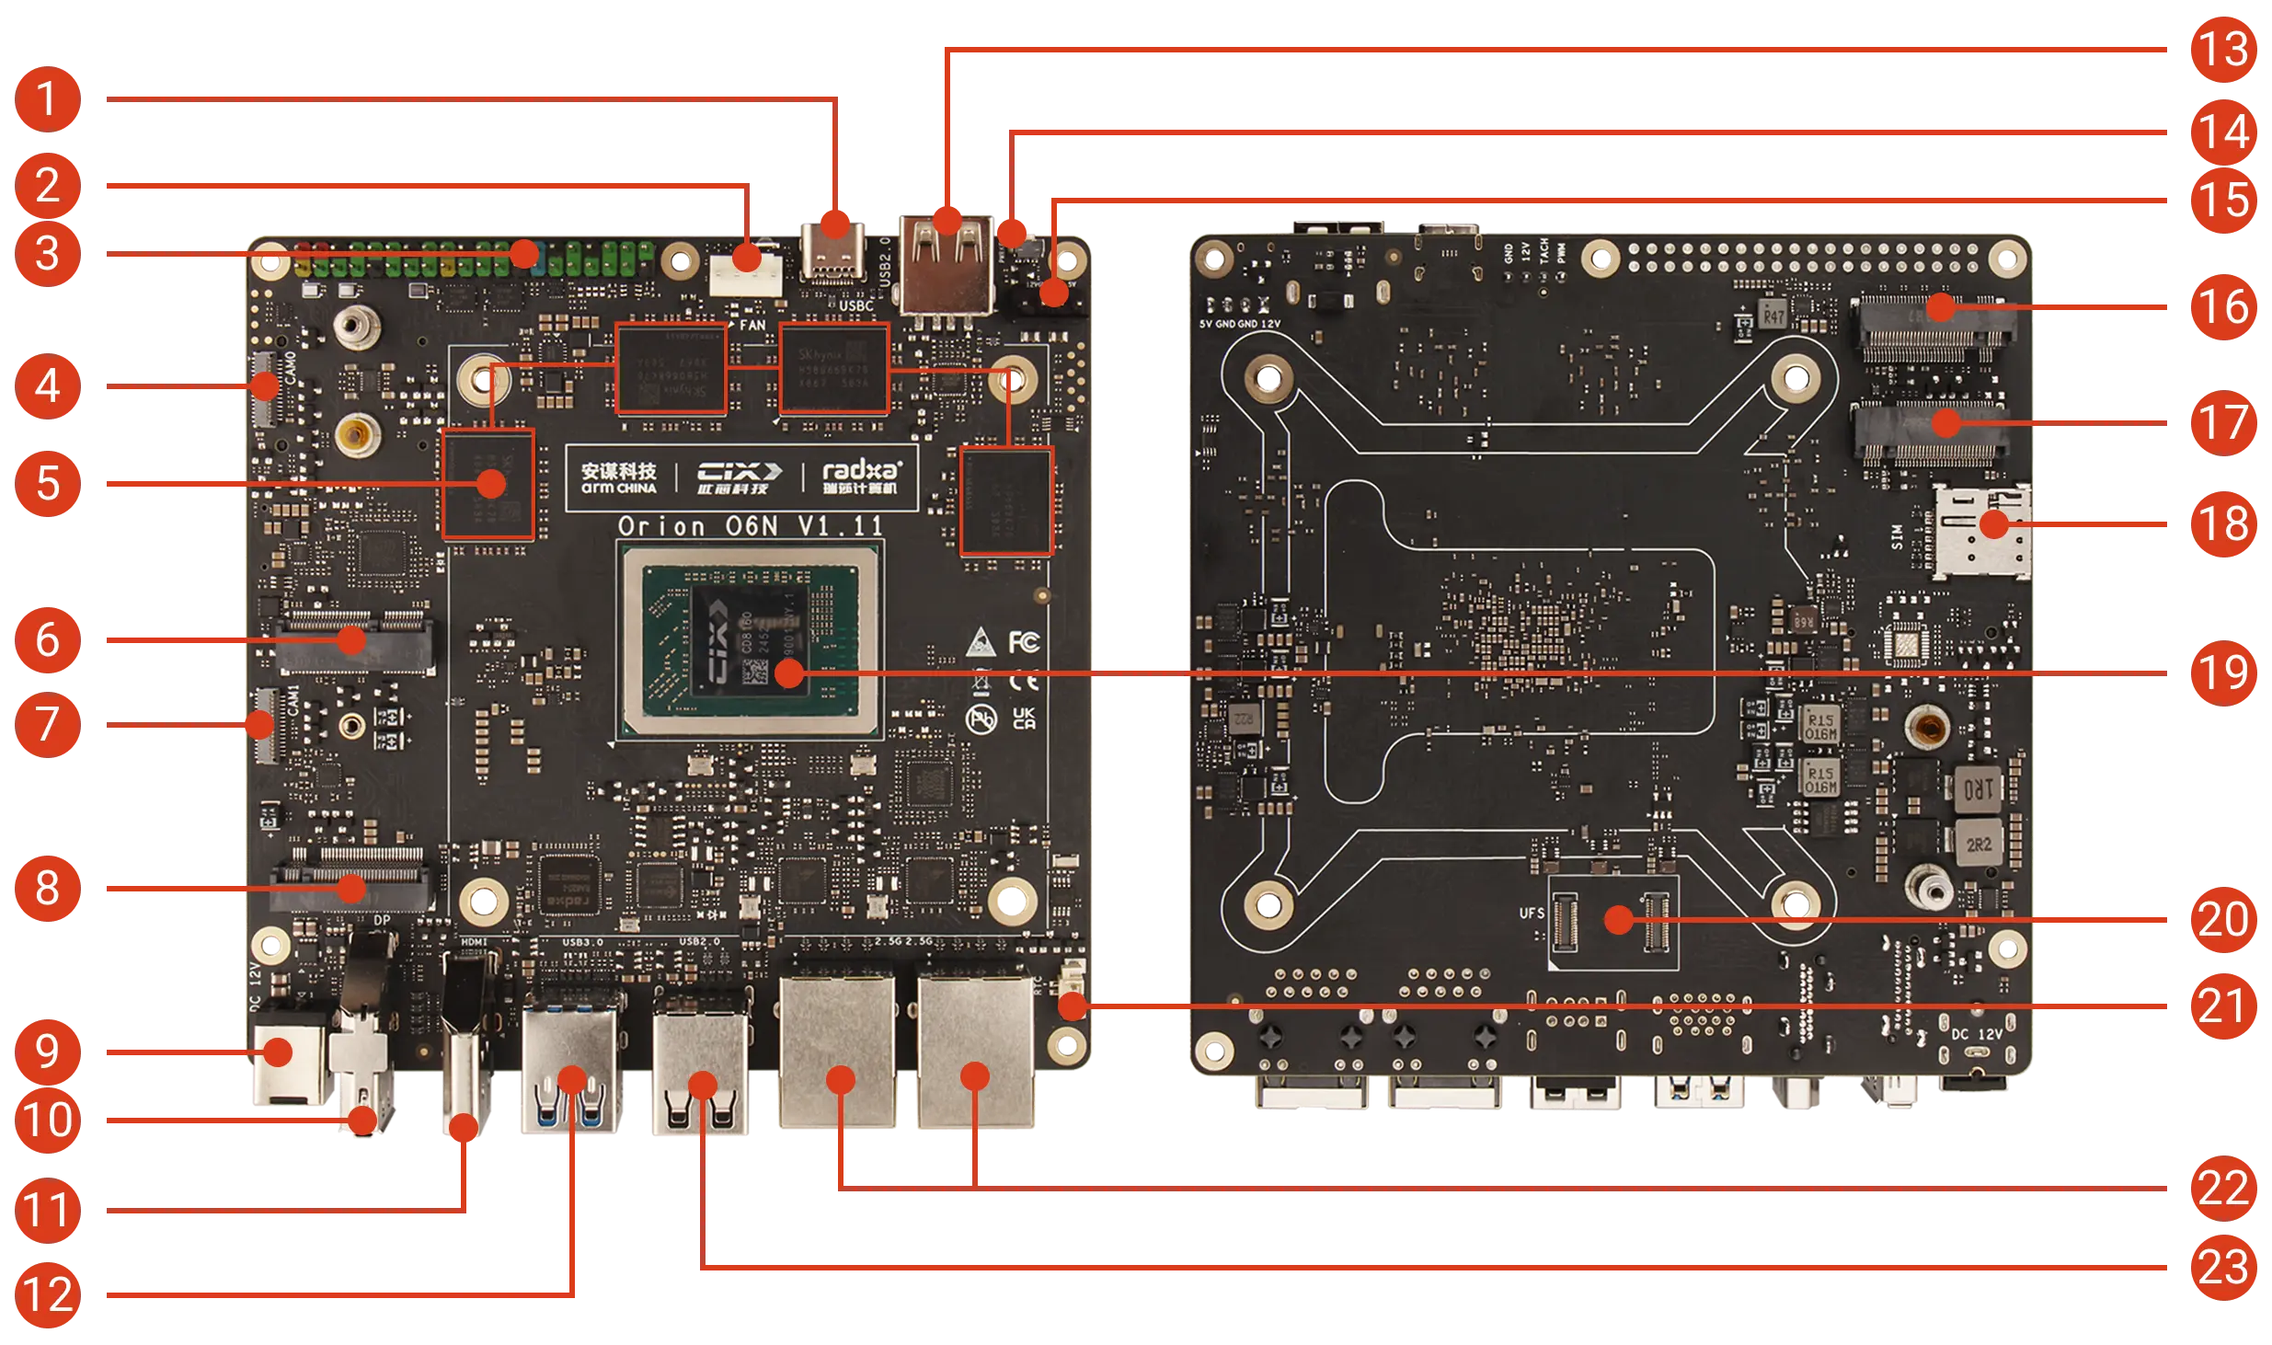
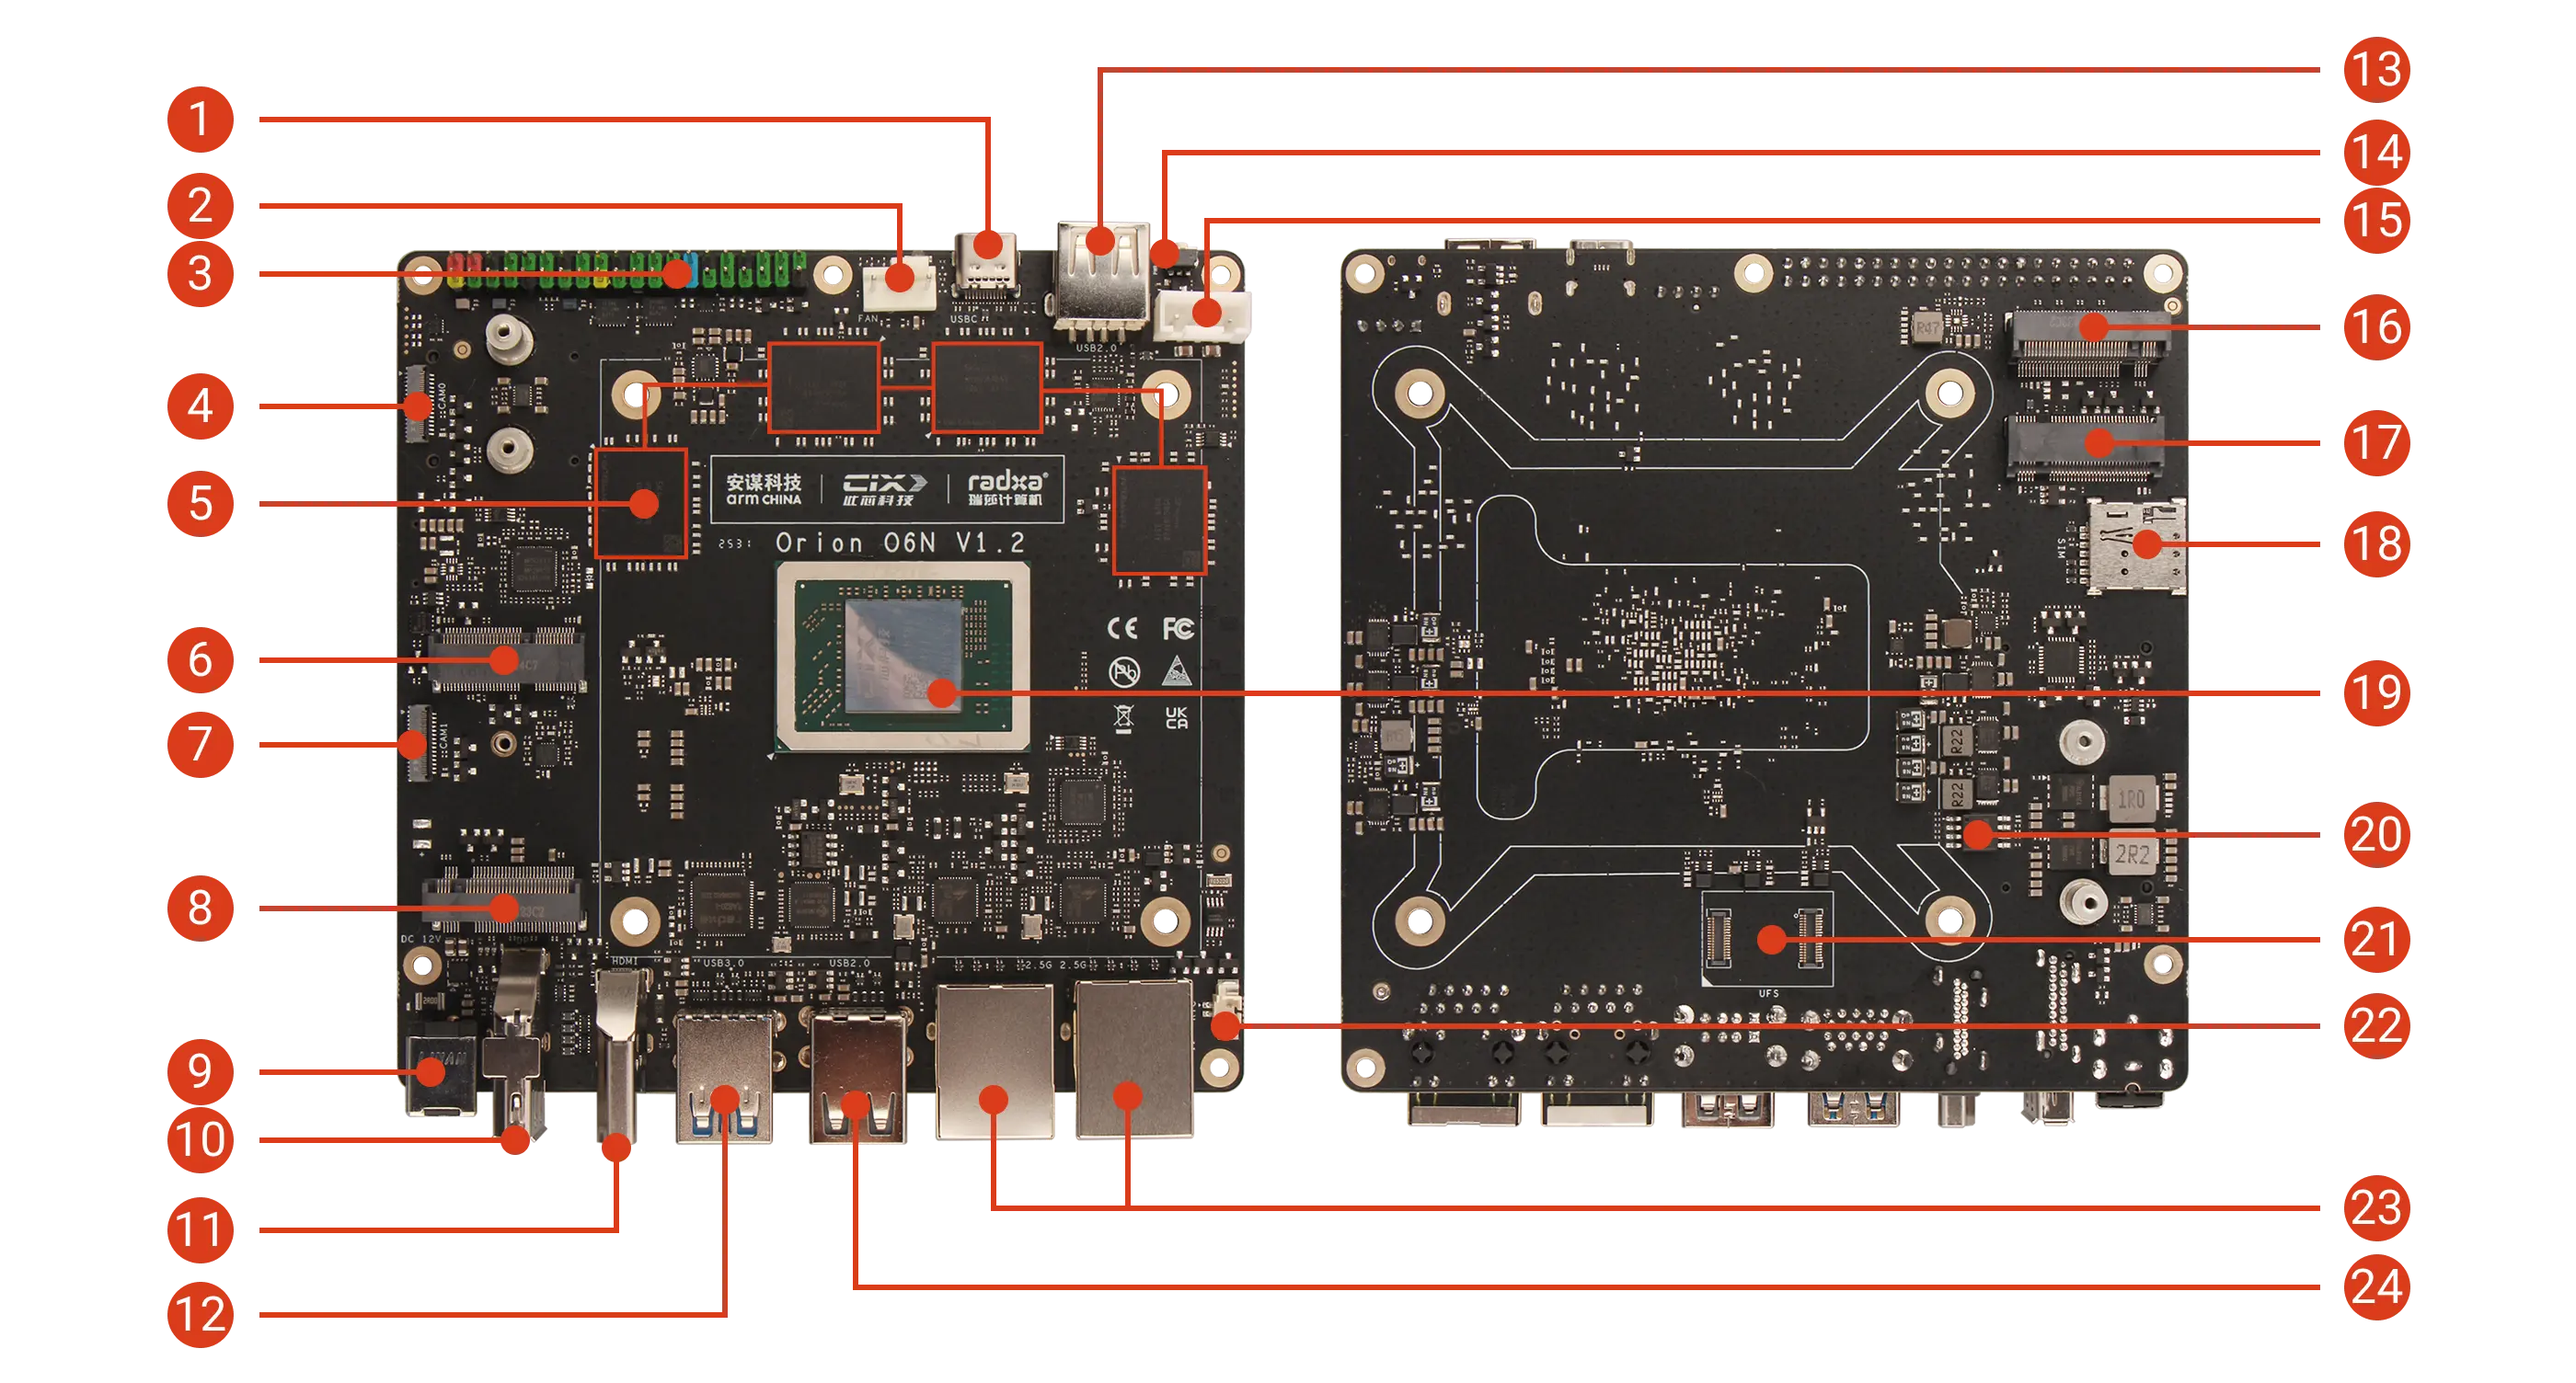
docs: add orion o6n bios location

diff --git a/i18n/en/docusaurus-plugin-content-docs/current/orion/o6n/hardware-use/hardware-info.md b/i18n/en/docusaurus-plugin-content-docs/current/orion/o6n/hardware-use/hardware-info.md
@@ -22,16 +22,16 @@ sidebar_position: 10
    <img src="/en/img/orion/o6n/orion-o6n-interface.webp" style={{width: '100%', maxWidth: '1200px'}} />
 </div>
 
-| No. | Description                                 | No. | Description         | No. | Description           |
-| --- | ------------------------------------------- | --- | ------------------- | --- | --------------------- |
-| 1   | USB Type-C Port (Supports DP Video Output)  | 9   | 12V DC Power (5525) | 17  | M.2 B Key 3042 Slot   |
-| 2   | 4-Pin Fan Header (PWM Speed Control & Tach) | 10  | Standard DP Port    | 18  | Nano SIM Card Slot    |
-| 3   | 40-Pin GPIO Header                          | 11  | Standard HDMI Port  | 19  | ZX P1 SoC             |
-| 4   | MIPI CSI Interface (4-lane)                 | 12  | 2x USB 3.0 Type-A   | 20  | UFS Module Connector  |
-| 5   | LPDDR5                                      | 13  | USB 2.0 Type-A      | 21  | RTC Battery Connector |
-| 6   | M.2 E Key 2230 Slot                         | 14  | Power Button        | 22  | 2x 2.5G Ethernet      |
-| 7   | MIPI CSI Interface (4-lane)                 | 15  | 5V / 12V Power Port | 23  | 2x USB 2.0 Type-A     |
-| 8   | M.2 M Key 2280 Slot                         | 16  | M.2 M Key 2280 Slot |     |                       |
+| No. | Description                                       | No. | Description               | No. | Description           |
+| --- | ------------------------------------------------- | --- | ------------------------- | --- | --------------------- |
+| 1   | USB Type-C Port (Supports DP Video Output)        | 9   | 12V DC Power Input (5525) | 17  | M.2 B Key 3042 Slot   |
+| 2   | 4-Pin Fan Header (PWM Speed Control & Tachometer) | 10  | Standard DP Port          | 18  | Nano SIM Card Slot    |
+| 3   | 40-Pin GPIO Header                                | 11  | Standard HDMI Port        | 19  | CIX P1 SoC            |
+| 4   | MIPI CSI Interface (4-lane)                       | 12  | 2x USB 3.0 Type-A         | 20  | SPI Nor Flash (BIOS)  |
+| 5   | LPDDR5                                            | 13  | USB 2.0 Type-A            | 21  | UFS Module Interface  |
+| 6   | M.2 E Key 2230 Slot                               | 14  | Power Button              | 22  | RTC Battery Connector |
+| 7   | MIPI CSI Interface (4-lane)                       | 15  | 5V / 12V Power Port       | 23  | 2x 2.5G Ethernet      |
+| 8   | M.2 M Key 2280 Slot                               | 16  | M.2 M Key 2280 Slot       | 24  | 2x USB 2.0 Type-A     |
 
 ### Power Interface
 

diff --git a/i18n/en/docusaurus-plugin-content-docs/current/orion/o6n/README.md b/i18n/en/docusaurus-plugin-content-docs/current/orion/o6n/README.md
@@ -65,12 +65,12 @@ Note: The actual package contents are subject to the purchase platform's specifi
 | --- | ------------------------------------------------- | --- | ------------------------- | --- | --------------------- |
 | 1   | USB Type-C Port (Supports DP Video Output)        | 9   | 12V DC Power Input (5525) | 17  | M.2 B Key 3042 Slot   |
 | 2   | 4-Pin Fan Header (PWM Speed Control & Tachometer) | 10  | Standard DP Port          | 18  | Nano SIM Card Slot    |
-| 3   | 40-Pin GPIO Header                                | 11  | Standard HDMI Port        | 19  | ZX P1 SoC             |
-| 4   | MIPI CSI Interface (4-lane)                       | 12  | 2x USB 3.0 Type-A         | 20  | UFS Module Interface  |
-| 5   | LPDDR5 Memory                                     | 13  | USB 2.0 Type-A            | 21  | RTC Battery Connector |
-| 6   | M.2 E Key 2230 Slot                               | 14  | Power Button              | 22  | 2x 2.5G Ethernet      |
-| 7   | MIPI CSI Interface (4-lane)                       | 15  | 5V / 12V Power Port       | 23  | 2x USB 2.0 Type-A     |
-| 8   | M.2 M Key 2280 Slot                               | 16  | M.2 M Key 2280 Slot       |     |                       |
+| 3   | 40-Pin GPIO Header                                | 11  | Standard HDMI Port        | 19  | CIX P1 SoC            |
+| 4   | MIPI CSI Interface (4-lane)                       | 12  | 2x USB 3.0 Type-A         | 20  | SPI Nor Flash (BIOS)  |
+| 5   | LPDDR5                                            | 13  | USB 2.0 Type-A            | 21  | UFS Module Interface  |
+| 6   | M.2 E Key 2230 Slot                               | 14  | Power Button              | 22  | RTC Battery Connector |
+| 7   | MIPI CSI Interface (4-lane)                       | 15  | 5V / 12V Power Port       | 23  | 2x 2.5G Ethernet      |
+| 8   | M.2 M Key 2280 Slot                               | 16  | M.2 M Key 2280 Slot       | 24  | 2x USB 2.0 Type-A     |
 
 ## Application Scenarios
 

diff --git a/i18n/en/docusaurus-plugin-content-docs/current/orion/o6/hardware-use/hardware-info.md b/i18n/en/docusaurus-plugin-content-docs/current/orion/o6/hardware-use/hardware-info.md
@@ -27,7 +27,7 @@ sidebar_position: 10
 | 1   | USB 2.0 (Front Panel)                                        | 11  | 2x Speaker Interface                                                                    | 21  | Power Button                                                      |
 | 2   | Audio Interface (Front Panel)                                | 12  | Status Indicator                                                                        | 22  | 4-Pin Fan Connector<br/>- Supports PWM Speed Control & Monitoring |
 | 3   | Touch Panel Interface                                        | 13  | Reset Button                                                                            | 23  | BIOS Flash Socket                                                 |
-| 4   | Multi-function Interface (Front Panel)<br/>- Power/LED/Reset | 14  | 3.5 mm Headphone Jack                                                                   | 24  | ZX P1 SoC                                                         |
+| 4   | Multi-function Interface (Front Panel)<br/>- Power/LED/Reset | 14  | 3.5 mm Headphone Jack                                                                   | 24  | CIX P1 SoC                                                        |
 | 5   | UART Interface                                               | 15  | 2x 5G Ethernet                                                                          | 25  | 40-Pin GPIO Header                                                |
 | 6   | eDP Interface                                                | 16  | DisplayPort                                                                             | 26  | LPDDR5                                                            |
 | 7   | RTC Battery Holder                                           | 17  | HDMI Port                                                                               | 27  | ATX Power Connector                                               |

diff --git a/docs/orion/o6n/README.md b/docs/orion/o6n/README.md
@@ -66,11 +66,11 @@ O6N 专为 AI 推理、图形处理、视频编解码和多屏显示等高性能
 | 1    | USB Type-C 接口（支持 DP 视频输出）   | 9    | 12V DC 供电（5525） | 17   | M.2 B Key 3042 插槽 |
 | 2    | 4-Pin 风扇接口（支持 PWM 调速与测速） | 10   | 标准 DP 接口        | 18   | Nano SIM 卡槽       |
 | 3    | 40-Pin GPIO 排针                      | 11   | 标准 HDMI 接口      | 19   | 此芯 P1 SoC         |
-| 4    | MIPI CSI 接口（4-lane）               | 12   | 2x USB 3.0 Type-A   | 20   | UFS 模块接口        |
-| 5    | LPDDR5                                | 13   | USB 2.0 Type-A      | 21   | RTC 电池接口        |
-| 6    | M.2 E Key 2230 插槽                   | 14   | 电源按键            | 22   | 2x 2.5G 以太网      |
-| 7    | MIPI CSI 接口（4-lane）               | 15   | 5V / 12V 电源接口   | 23   | 2x USB 2.0 Type-A   |
-| 8    | M.2 M Key 2280 插槽                   | 16   | M.2 M Key 2280 插槽 |      |                     |
+| 4    | MIPI CSI 接口（4-lane）               | 12   | 2x USB 3.0 Type-A   | 20   | SPI Nor Flash(BIOS) |
+| 5    | LPDDR5                                | 13   | USB 2.0 Type-A      | 21   | UFS 模块接口        |
+| 6    | M.2 E Key 2230 插槽                   | 14   | 电源按键            | 22   | RTC 电池接口        |
+| 7    | MIPI CSI 接口（4-lane）               | 15   | 5V / 12V 电源接口   | 23   | 2x 2.5G 以太网      |
+| 8    | M.2 M Key 2280 插槽                   | 16   | M.2 M Key 2280 插槽 | 24   | 2x USB 2.0 Type-A   |
 
 ## 应用场景
 

diff --git a/docs/orion/o6n/hardware-use/hardware-info.md b/docs/orion/o6n/hardware-use/hardware-info.md
@@ -27,11 +27,11 @@ sidebar_position: 10
 | 1    | USB Type-C 接口（支持 DP 视频输出）   | 9    | 12V DC 供电（5525） | 17   | M.2 B Key 3042 插槽 |
 | 2    | 4-Pin 风扇接口（支持 PWM 调速与测速） | 10   | 标准 DP 接口        | 18   | Nano SIM 卡槽       |
 | 3    | 40-Pin GPIO 排针                      | 11   | 标准 HDMI 接口      | 19   | 此芯 P1 SoC         |
-| 4    | MIPI CSI 接口（4-lane）               | 12   | 2x USB 3.0 Type-A   | 20   | UFS 模块连接座      |
-| 5    | LPDDR5                                | 13   | USB 2.0 Type-A      | 21   | RTC 电池接口        |
-| 6    | M.2 E Key 2230 插槽                   | 14   | 电源按键            | 22   | 2x 2.5G 以太网      |
-| 7    | MIPI CSI 接口（4-lane）               | 15   | 5V / 12V 电源接口   | 23   | 2x USB 2.0 Type-A   |
-| 8    | M.2 M Key 2280 插槽                   | 16   | M.2 M Key 2280 插槽 |      |                     |
+| 4    | MIPI CSI 接口（4-lane）               | 12   | 2x USB 3.0 Type-A   | 20   | SPI Nor Flash(BIOS) |
+| 5    | LPDDR5                                | 13   | USB 2.0 Type-A      | 21   | UFS 模块接口        |
+| 6    | M.2 E Key 2230 插槽                   | 14   | 电源按键            | 22   | RTC 电池接口        |
+| 7    | MIPI CSI 接口（4-lane）               | 15   | 5V / 12V 电源接口   | 23   | 2x 2.5G 以太网      |
+| 8    | M.2 M Key 2280 插槽                   | 16   | M.2 M Key 2280 插槽 | 24   | 2x USB 2.0 Type-A   |
 
 ### 电源接口
 
